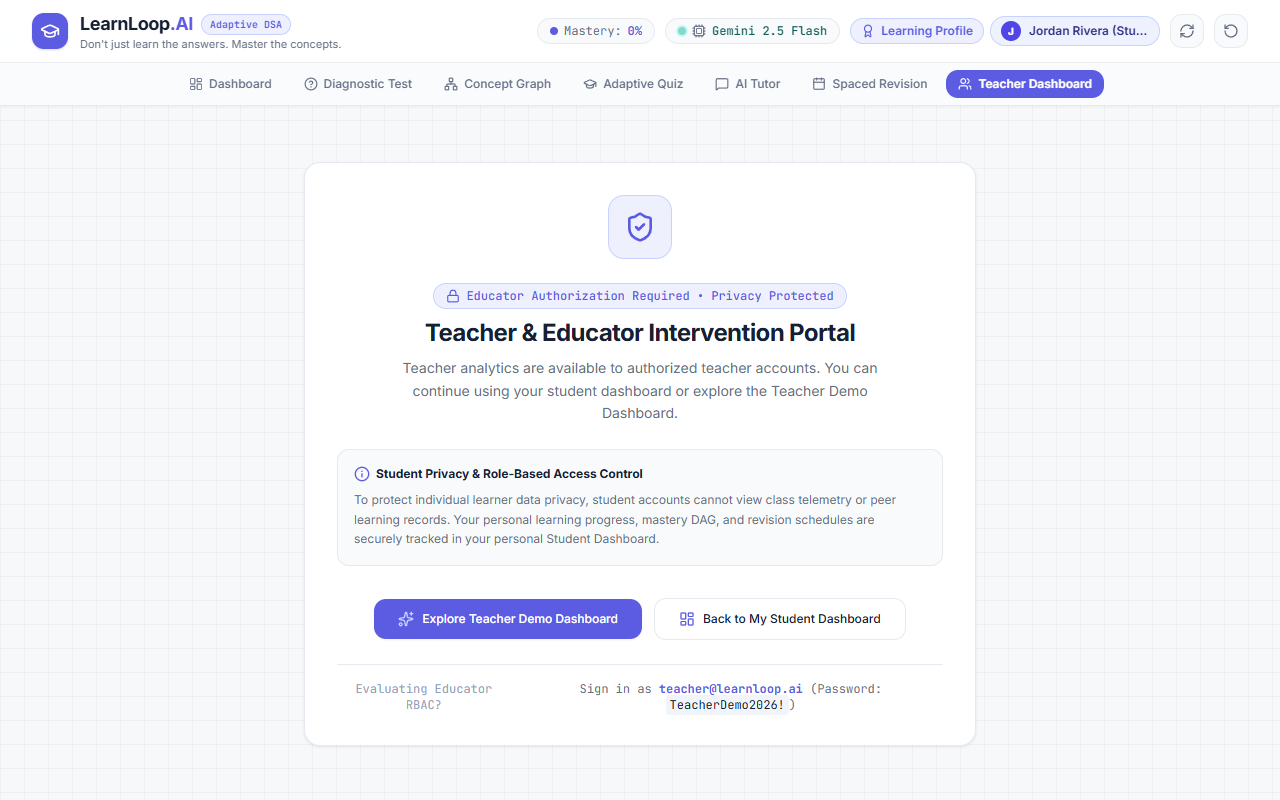
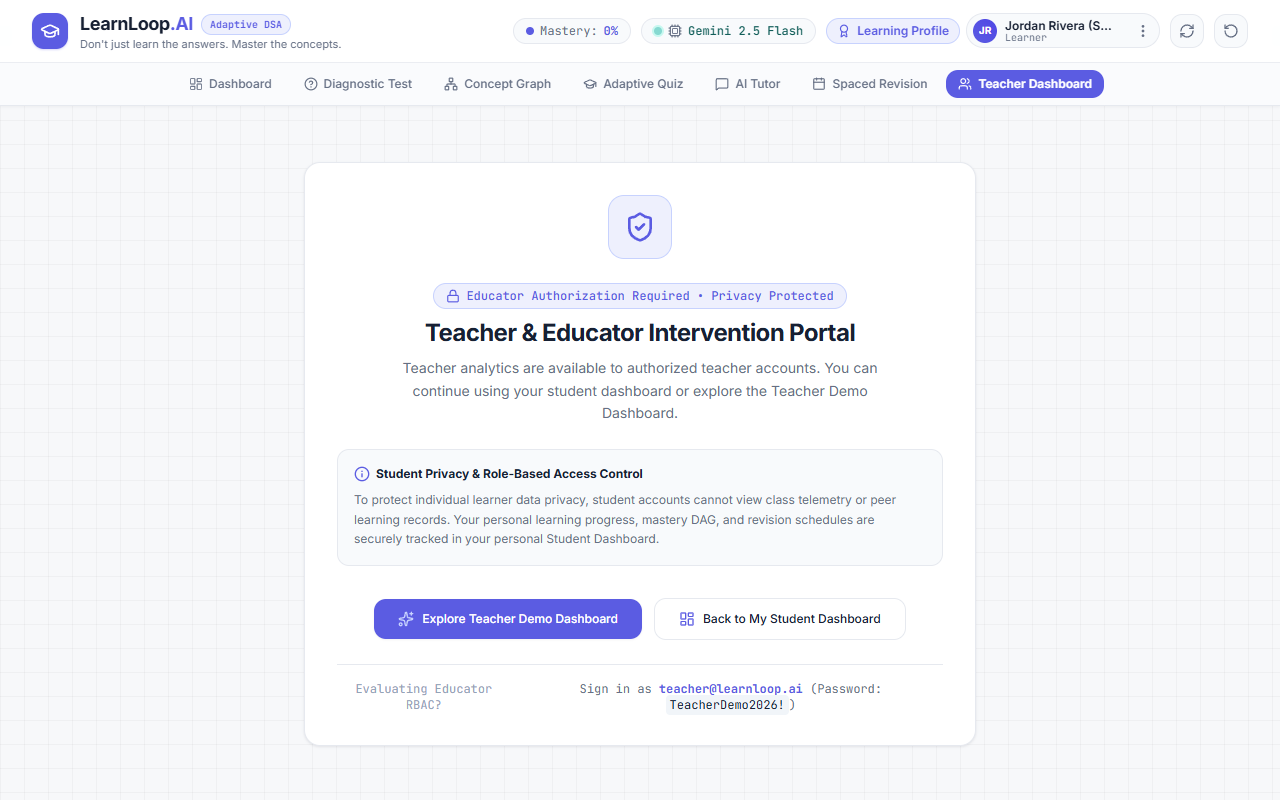
chore: update live verification screenshots and verification script

Changed region(s): [[0.4062, 0.0, 0.9062, 0.0625]]

diff --git a/scripts/check_live_vercel.py b/scripts/check_live_vercel.py
@@ -1,0 +1,26 @@
+import httpx
+import re
+import time
+
+def check_live():
+    print("Checking https://learnloop-ai-one.vercel.app...")
+    for attempt in range(1, 13):
+        try:
+            r = httpx.get('https://learnloop-ai-one.vercel.app', headers={'Cache-Control': 'no-cache'}, timeout=15.0)
+            js_files = re.findall(r'/assets/[^\s"\'\>]+\.js', r.text)
+            print(f"[Attempt {attempt}] HTTP {r.status_code}, Found JS: {js_files}")
+            for js in js_files:
+                r_js = httpx.get('https://learnloop-ai-one.vercel.app' + js, timeout=15.0)
+                has_landing = "Don't just learn the answers" in r_js.text or "Master the concepts" in r_js.text
+                has_menu = "Account and application options" in r_js.text
+                print(f"  -> {js}: has_landing={has_landing}, has_menu={has_menu}")
+                if has_landing and has_menu:
+                    print("\n SUCCESS! Vercel has deployed the new build!")
+                    return True
+        except Exception as e:
+            print(f"[Attempt {attempt}] Error: {e}")
+        time.sleep(10)
+    return False
+
+if __name__ == '__main__':
+    check_live()
